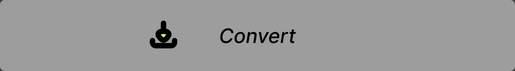
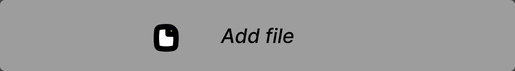
fixed buttons naming + jpgs naming, added basic popup directory if button is clicked

Changed region(s): [[0.4039, 0.3944, 0.5903, 0.6197], [0.2796, 0.2817, 0.3728, 0.7324]]

diff --git a/scripts/gui.py b/scripts/gui.py
@@ -1,13 +1,7 @@
 
-# This file was generated by the Tkinter Designer by Parth Jadhav
-# https://github.com/ParthJadhav/Tkinter-Designer
-
-
+from cbz_files_to_one_cbz import CbzFilesToOneCbz
 from pathlib import Path
-
-# from tkinter import *
-# Explicit imports to satisfy Flake8
-from tkinter import Tk, Canvas, Entry, Text, Button, PhotoImage
+from tkinter import Tk, Canvas, Entry, Text, Button, PhotoImage, filedialog
 
 
 OUTPUT_PATH = Path(__file__).parent
@@ -17,6 +11,15 @@ ASSETS_PATH = OUTPUT_PATH / Path(r'/Users/mateuszbuziak/Code/manga-kindle/script
 def relative_to_assets(path: str) -> Path:
     return ASSETS_PATH / Path(path)
 
+def browseDirectory():
+    directory_path = filedialog.askdirectory()
+    if directory_path:
+        print("Selected Directory:", directory_path)	
+
+def browseFiles():
+    file_name = filedialog.askopenfilename()
+    if file_name:
+        print("Selected File:", file_name)
 
 window = Tk()
 
@@ -43,13 +46,14 @@ canvas.create_rectangle(
     fill="#434343",
     outline="")
 
+# 'ADD DIRECTORY' button
 button_image_1 = PhotoImage(
     file=relative_to_assets("button_1.png"))
 button_1 = Button(
     image=button_image_1,
     borderwidth=0,
     highlightthickness=0,
-    command=lambda: print("button_1 clicked"),
+    command=browseDirectory,
     relief="flat"
 )
 button_1.place(
@@ -59,34 +63,36 @@ button_1.place(
     height=71.0
 )
 
+# 'ADD FILE' button
 button_image_2 = PhotoImage(
     file=relative_to_assets("button_2.png"))
 button_2 = Button(
     image=button_image_2,
     borderwidth=0,
     highlightthickness=0,
-    command=lambda: print("button_2 clicked"),
+    command=browseFiles,
     relief="flat"
 )
 button_2.place(
     x=92.0,
-    y=559.0,
+    y=437.0,
     width=515.0,
     height=71.0
 )
 
+# 'CONVERT' button
 button_image_3 = PhotoImage(
     file=relative_to_assets("button_3.png"))
 button_3 = Button(
     image=button_image_3,
     borderwidth=0,
     highlightthickness=0,
-    command=lambda: print("button_3 clicked"),
+    command=lambda: print("button_3 clicked"), #TODO CbzFilesToOneCbz
     relief="flat"
 )
 button_3.place(
     x=92.0,
-    y=437.0,
+    y=559.0,
     width=515.0,
     height=71.0
 )
